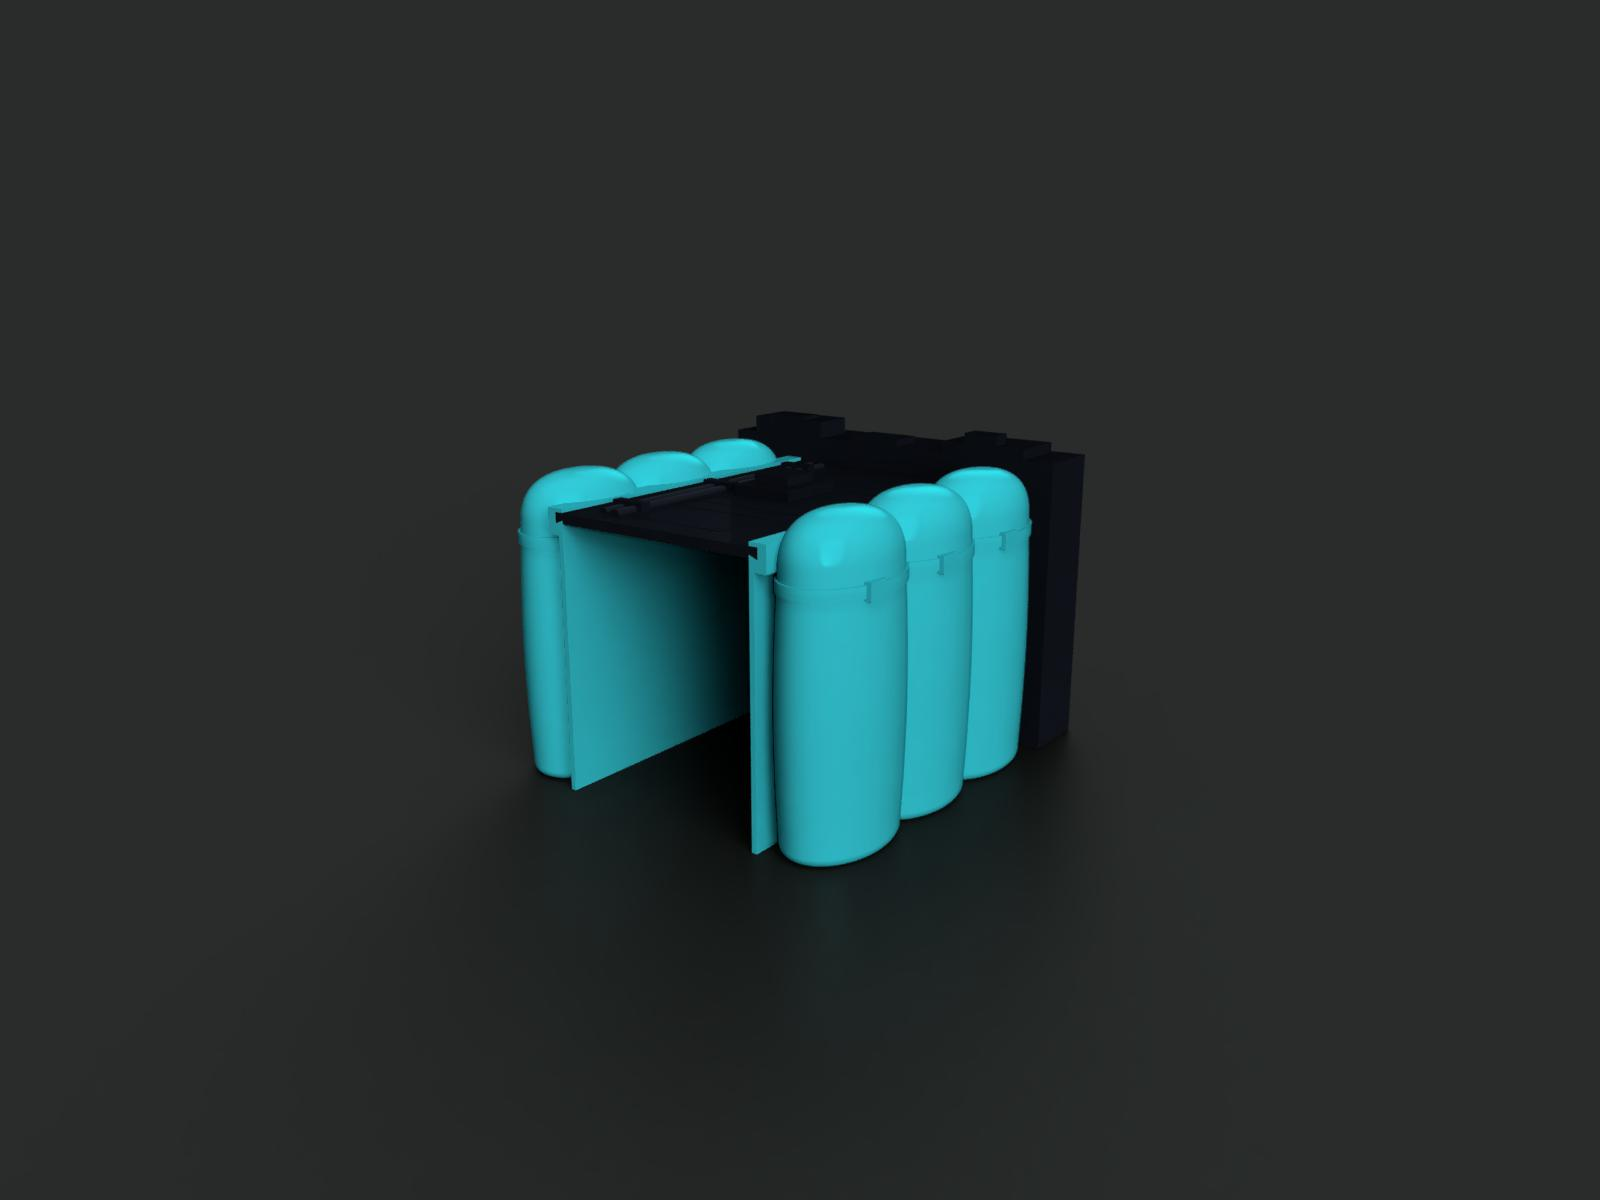
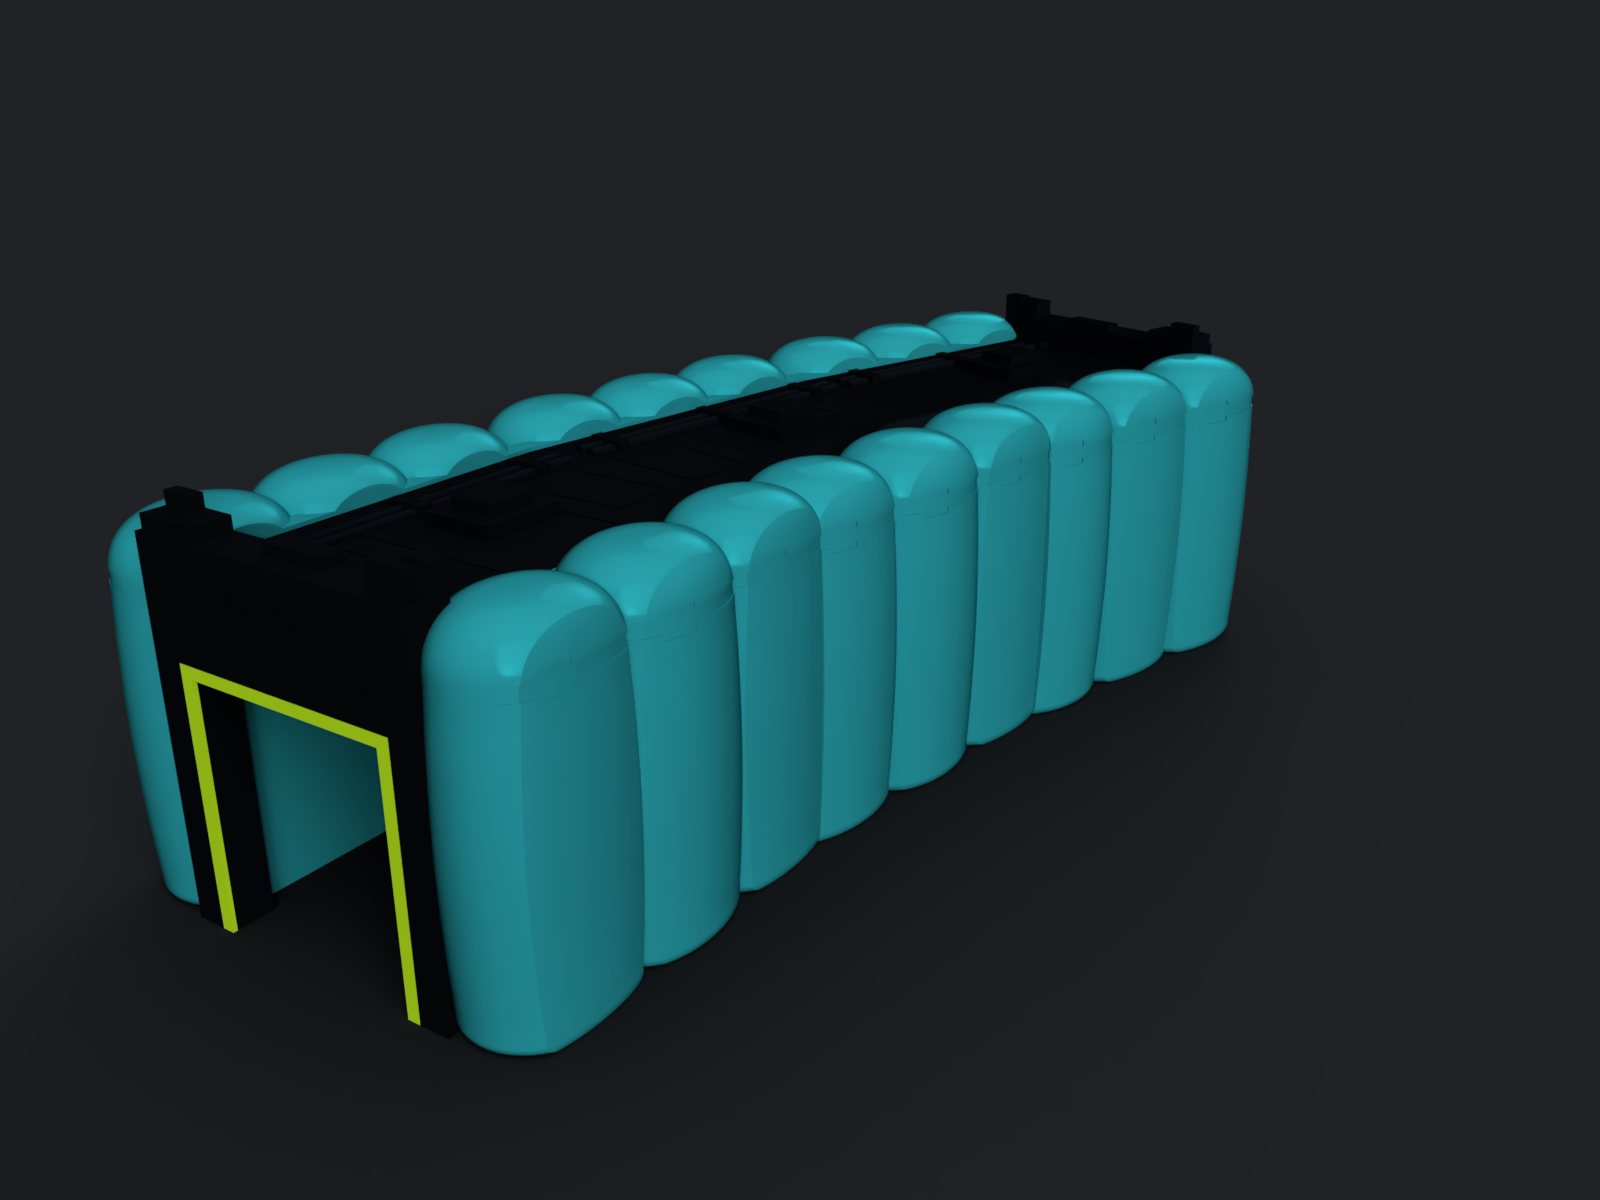
Update Data Wall renders to design v4 (9-pill curved wall)
New Fusion renders for cover and gallery; captions and specs updated.

Changed region(s): [[0.0625, 0.2467, 0.7812, 0.8942]]

diff --git a/projects.js b/projects.js
@@ -24,22 +24,22 @@ window.PROJECTS = [
     specs: [
       ["Printer", "Bambu A1 mini"],
       ["Material", "PETG"],
-      ["Parts", "10"],
-      ["Length", "239 mm"],
+      ["Parts", "19"],
+      ["Length", "477 mm"],
     ],
     links: [
       { label: "STL files", url: "#", kind: "model" },
       { label: "Build video", url: "#", kind: "video" },
     ],
     gallery: [
-      // Test set: Fusion 360 local renders of design v2 (not photos yet)
-      { src: "assets/datawall/cover.jpg", caption: "Render · gate end" },
-      { src: "assets/datawall/01.jpg", caption: "Render · open end, roof slid in" },
-      { src: "assets/datawall/02.jpg", caption: "Pill wall, strap + buckle" },
-      { src: "assets/datawall/03.jpg", caption: "Top view, roof deck: pipes + 2-tier block" },
+      // Fusion 360 local renders of design v4, the 9-pill curved wall (not photos yet)
+      { src: "assets/datawall/cover.jpg", caption: "Render · curved 9-pill wall, gate end" },
+      { src: "assets/datawall/01.jpg", caption: "Render · far gate, door at both ends" },
+      { src: "assets/datawall/02.jpg", caption: "Top view · curved roof deck, pipes + clamps" },
+      { src: "assets/datawall/03.jpg", caption: "Side elevation · nine pills, \"03\" recess" },
       { src: "assets/datawall/04.jpg", caption: "Gate + lime door trim", links: [{ label: "Gate STL", url: "#", kind: "model" }] },
-      { src: "assets/datawall/05.jpg", caption: "Side elevation" },
-      { src: "assets/datawall/06.jpg", caption: "Low angle, gate corner", links: [{ label: "Watch", url: "#", kind: "video" }] },
+      { src: "assets/datawall/05.jpg", caption: "Close-up · recessed \"03\" numerals + hazard stripes" },
+      { src: "assets/datawall/06.jpg", caption: "Roof deck detail · pipes, clamps, panel seams", links: [{ label: "Watch", url: "#", kind: "video" }] },
     ],
   },
 
